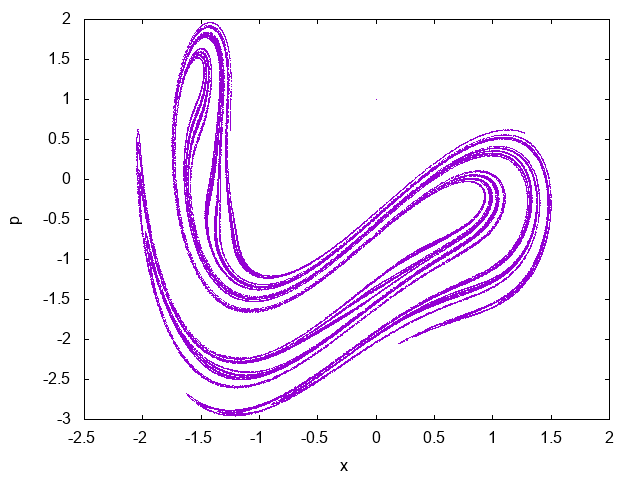
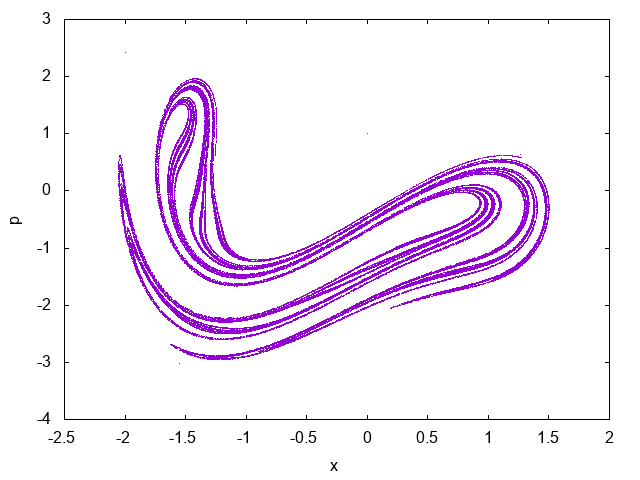
問題1.1(d)

diff --git a/chap1/q1_1/d.c b/chap1/q1_1/d.c
@@ -1,0 +1,50 @@
+#include <stdio.h>
+#include <stdlib.h>
+#include <stdbool.h>
+#include <math.h>
+#include "duffing.h"
+
+#define mesh    1000
+#define points  25000
+#define steps   (mesh*points)
+
+int main(int argc, char **argv){
+    if(argc < 3){
+        fprintf(stderr, "usage: ./b.out x0 v0");
+        return 1;
+    }
+    double T = 2*PI/omega;
+    double h = T/mesh;
+    double *x, *v;
+    x = (double *)malloc(sizeof(double)*(steps+1));
+    v = (double *)malloc(sizeof(double)*(steps+1));
+    x[0] = atof(argv[1]);
+    v[0] = atof(argv[2]);
+
+    rk4(F, x, v, h, steps);
+
+    bool in[128][128];
+    printf("# b\tN\n");
+    for(int l=2;l<=128;l*=2){
+        int cnt = 0;
+        for(int i=0;i<l;i++){
+            for(int j=0;j<l;j++){
+                in[i][j] = false;
+            }
+        }
+        for(int i=0;i<=steps;i+=mesh){
+            int xx = (x[i]+3.0)*l/6.0;
+            int yy = (v[i]+3.0)*l/6.0;
+            if(!in[xx][yy]){
+                cnt++;
+                in[xx][yy] = true;
+            }
+        }
+        printf("%f\t%d\n", 6.0/l, cnt);
+    }
+
+    free(x);
+    free(v);
+    
+    return 0;
+}

diff --git a/chap1/q1_1/b.c b/chap1/q1_1/b.c
@@ -4,7 +4,7 @@
 #include "duffing.h"
 
 #define mesh    300
-#define points  1000000
+#define points  100000
 #define steps   (mesh*points)
 
 int main(int argc, char **argv){
@@ -23,7 +23,7 @@ int main(int argc, char **argv){
     rk4(F, x, v, h, steps);
 
     printf("# t\tx\tp\n");
-    for(int i=0;i<=steps;i+=3000){
+    for(int i=0;i<=steps;i+=mesh){
         printf("%.8f\t%.8f\t%.8f\n", h*i, x[i], v[i]);
     }
 
